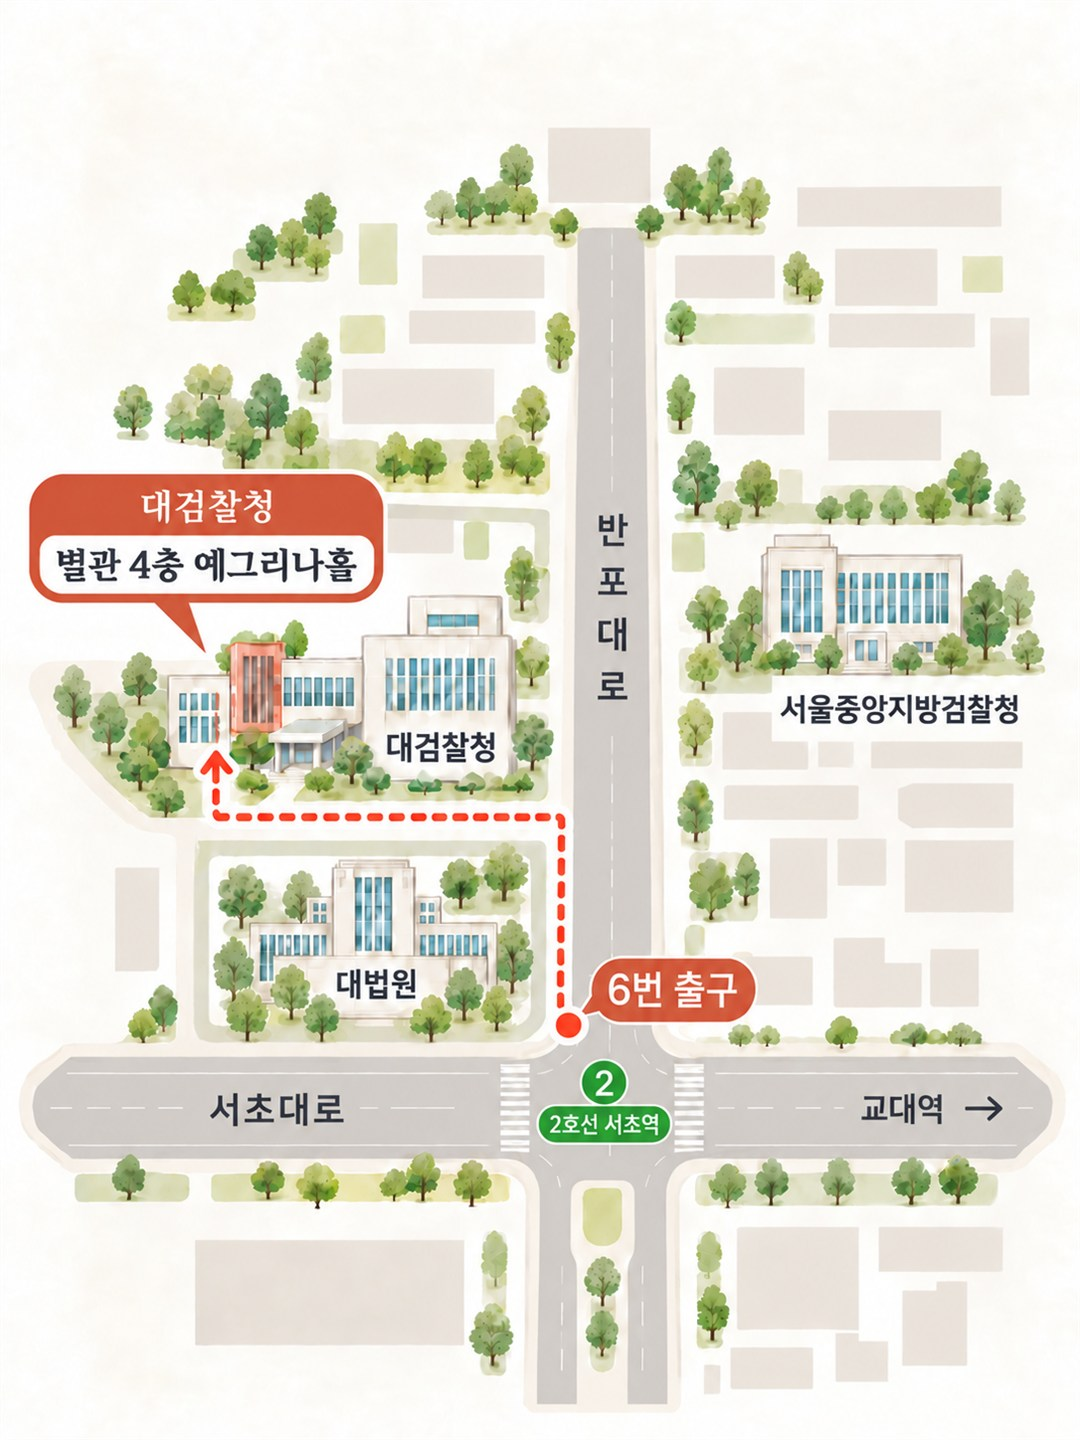
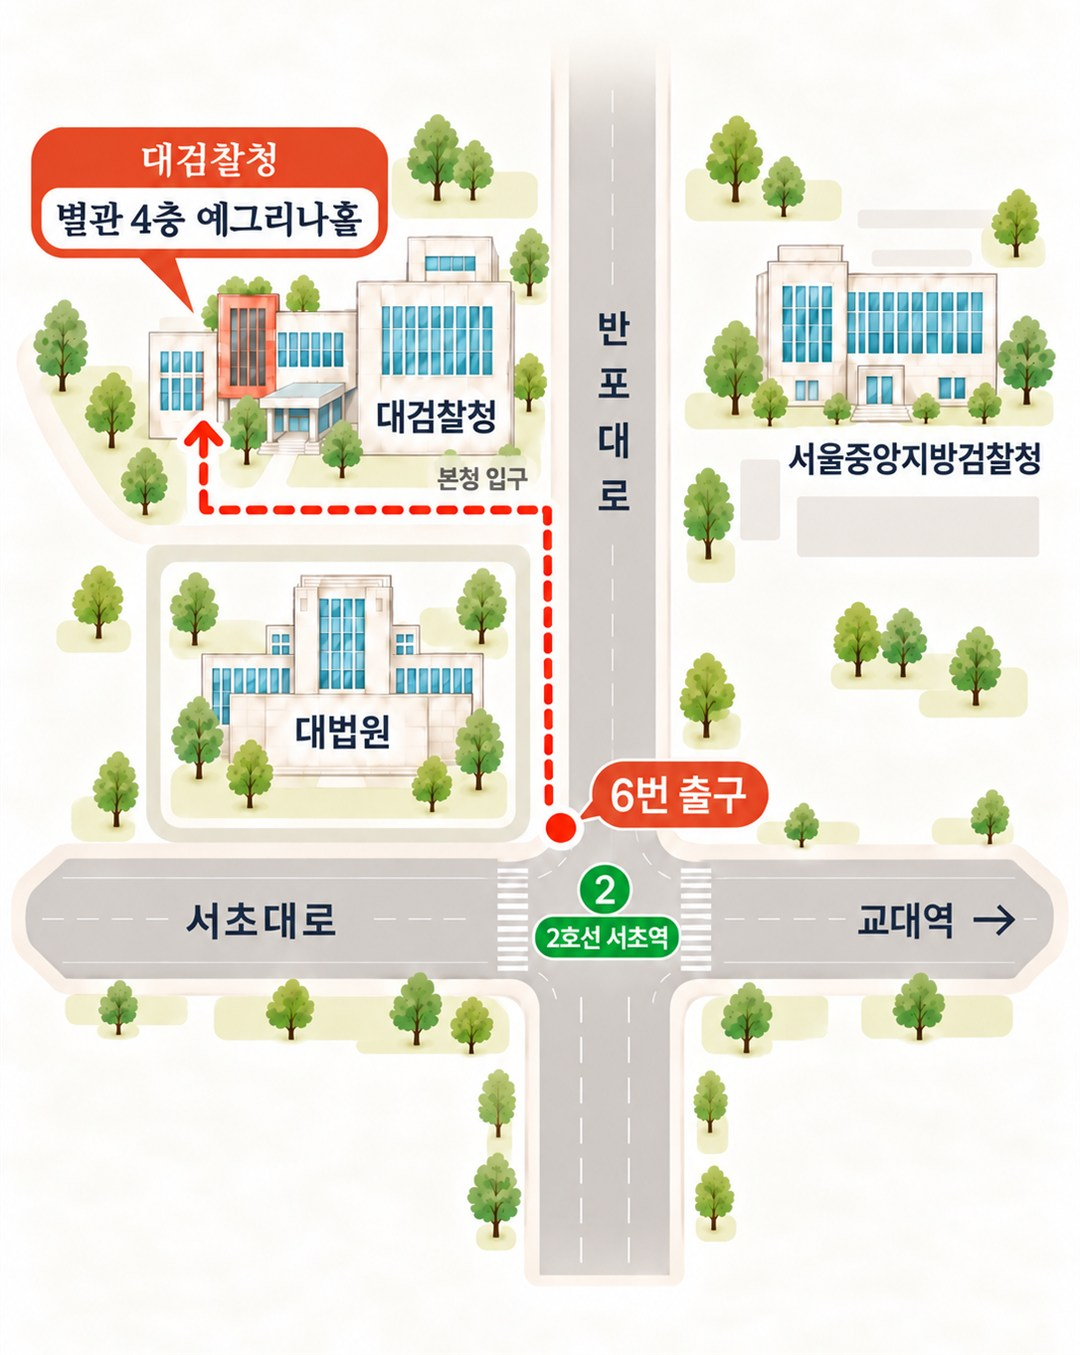
Simplify venue map details

diff --git a/docs/index.html b/docs/index.html
@@ -103,7 +103,7 @@
           <h2 id="location-title">오시는 길</h2>
           <div class="venue-card">
             <figure class="location-map">
-              <img src="./images/location-map.jpg?v=20261007-6" alt="서초역 6번 출구에서 대검찰청 별관 4층 예그리나홀까지 가는 길과 주변 기관을 표시한 약도" loading="lazy" decoding="async" />
+              <img src="./images/location-map.jpg?v=20261007-7" alt="서초역 6번 출구에서 본청 입구를 거쳐 대검찰청 별관 4층 예그리나홀까지 가는 길과 주변 기관을 표시한 약도" loading="lazy" decoding="async" />
             </figure>
             <div class="venue-content">
               <p class="venue-label">WEDDING VENUE</p>
